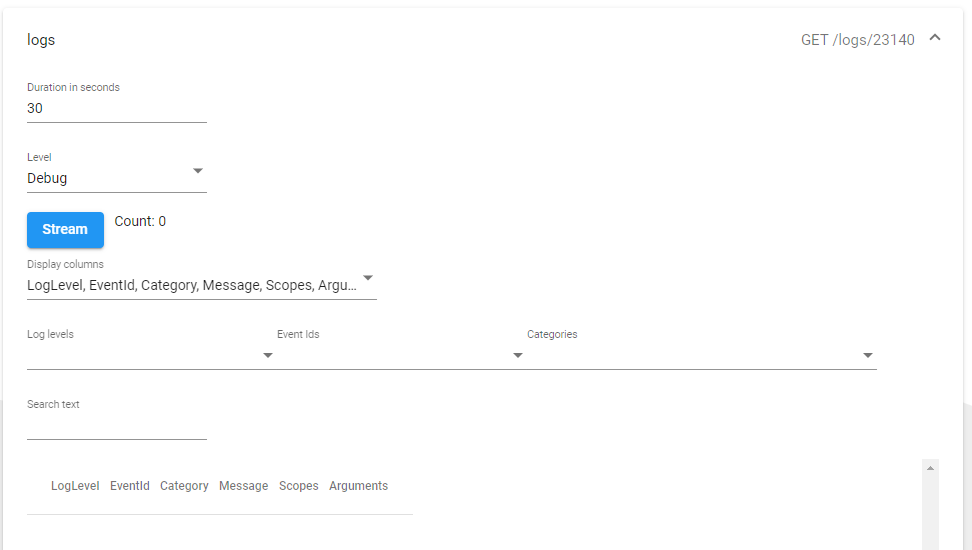
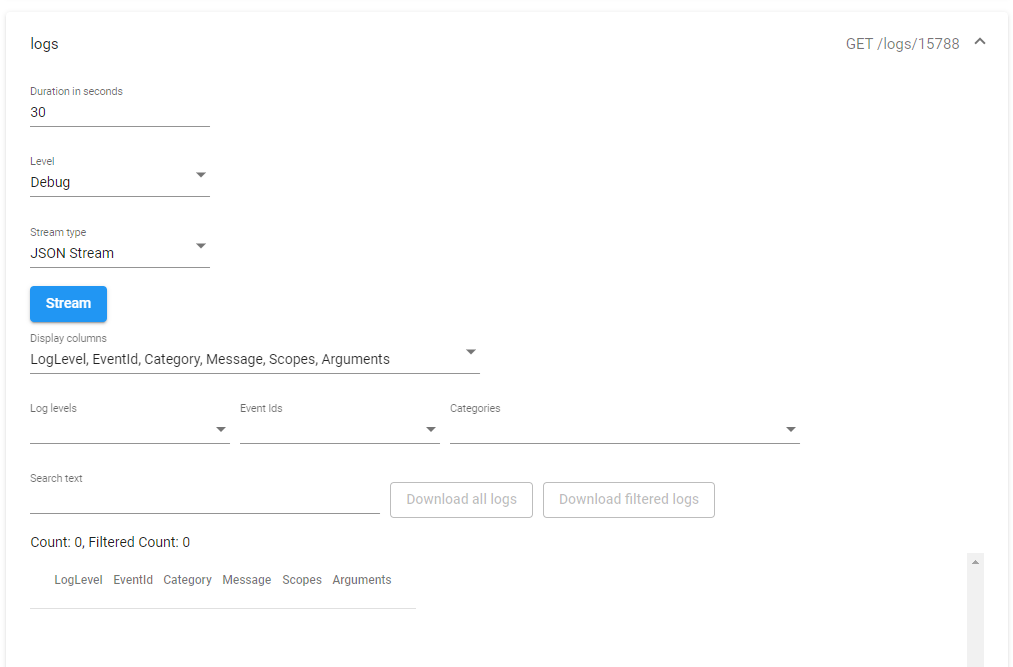
Updated README.md with new changes

diff --git a/src/styles.scss b/src/styles.scss
@@ -27,13 +27,13 @@ body {
   }
 }
 
+@include angular-material-theme($light-theme);
 
 .dark-theme {
-  @include angular-material-theme($dark-theme);
+  @include angular-material-color($dark-theme);
   @include set-app-toolbar($dark-theme);
   @include set-app-background(mat-color(map-get($dark-theme, primary), 900));
   @include set-warning-card-colors($dark-theme);
-
 
   $foreground: map-get($dark-theme, foreground);
   mat-form-field.mat-form-field input {
@@ -42,8 +42,13 @@ body {
 }
 
 .light-theme {
-  @include angular-material-theme($light-theme);
+  // @include angular-material-color($light-theme);
   @include set-app-toolbar($light-theme);
   @include set-app-background(#ffffff);
   @include set-warning-card-colors($light-theme);
+
+  $foreground: map-get($light-theme, foreground);
+  mat-form-field.mat-form-field input {
+    color: mat-color($foreground, text);
+  }
 }

diff --git a/src/index.html b/src/index.html
@@ -2,7 +2,7 @@
 <html lang="en">
 <head>
   <meta charset="utf-8">
-  <title>dotnet-monitor UI</title>
+  <title>dotnet-monitor ui</title>
   <base href="/">
   <meta name="viewport" content="width=device-width, initial-scale=1">
   <link rel="icon" type="image/x-icon" href="favicon.ico">

diff --git a/README.md b/README.md
@@ -13,6 +13,39 @@ This project is created as an easy to access user experience for `dotnet-monitor
 - Increased width of views so user has more visibility on content.
 - Added thanking note. Read [here](#thank-you).
 
+### 2020-07-27
+
+- Added `text/event-stream` support for `/logs` endpoint.
+- Added dark theme (experimental).
+- Improvements for `/metrics` endpoint access.
+- Demo app is now available for use: [https://dotnet-monitor-ui.dev/](https://dotnet-monitor-ui.dev/)
+
+## Demo
+
+Now you can use the latest version of `dotnet-monitor ui` online from [https://dotnet-monitor-ui.dev/](https://dotnet-monitor-ui.dev/). Please follow below instruction to use this site to access `dotnet-monitor` endpoints accessible to your machine. For now, you have to build the solution from the repo to make it work with UI. More details why can be found [here](#i-want-to-build-it).
+
+1. Clone official `dotnet diagnostics` repository from this url. [https://github.com/dotnet/diagnostics](https://github.com/dotnet/diagnostics)
+2. Navigate to `\src\Tools\dotnet-monitor` from your favorite command line tool.
+3. Run `dotnet build`
+4. Open `\artifacts\bin\dotnet-monitor\Debug\netcoreapp2.1\appsettings.json` and add below section to the end.
+
+```json
+  "CorsConfiguration": {
+    "AllowedOrigins": "https://dotnet-monitor-ui.dev"
+  }
+```
+
+5. Goto `\artifacts\bin\dotnet-monitor\Debug\netcoreapp2.1\` using command line tool said above.
+6. Run `dotnet exec dotnet-monitor.dll collect`
+7. Now you can goto [https://dotnet-monitor-ui.dev/](https://dotnet-monitor-ui.dev/) and enjoy full experience of `dotnet-monitor`
+
+---
+**NOTE**
+
+[https://dotnet-monitor-ui.dev/](https://dotnet-monitor-ui.dev/) does not collect any details from your browser nor collect any response received from `dotnet-monitor` tool. It does not have tracking integrated and does not contain any library or tool to collect your personal information. Site hosted here is pure build from the code you can find in this repository.
+
+---
+
 ## Features
 
 In the landing page, user can setup endpoints of the `dotnet-monitor` tool and after clicking `Reload` (application will try to access default endpoint urls on load and show processes if it's available), all available processes from `dotnet-monitor` will be shown in list like this. In the list, user can use `Download` button to download dumps, gcdumps or traces with default parameters. But if user wants to fine-tune input for each endpoint, user can click `More` button to goto process page.
@@ -71,11 +104,13 @@ More info: [https://devblogs.microsoft.com/dotnet/introducing-dotnet-monitor/#me
 
 ![Metrics UI](documentation/images/metrics.png?raw=true "Metrics UI")
 
-## I want to try it out
+## I want to build it
 
 With quick response for my [issue](https://github.com/dotnet/diagnostics/issues/1346), now we have support for CORS rules within `dotnet-monitor`. Thank you [@wiktork](https://github.com/wiktork) for quick turnaround for this! 😊
 
 Until we see this in next release build, you still have to checkout the repo and build the `dotnet-monitor`. Once I have details of the build, I will update it here. Until that, please check below steps to run the latest build.
+
+### Visual Studio 2019
 
 1. Clone official `dotnet diagnostics` repository from this url. [https://github.com/dotnet/diagnostics](https://github.com/dotnet/diagnostics)
 2. Open the solution(`diagnostics.sln`) in Visual Studio and navigate to `src -> Microsoft.Diagnostics.Monitoring.RestServer -> appsettings.json`
@@ -92,39 +127,28 @@ Until we see this in next release build, you still have to checkout the repo and
 6. Clone this repository
 7. Run `ng serve` for a dev server. Navigate to `http://localhost:4200/`.
 
-<strike>
-Well, I want to say it is easy-peasy to see this in action, but unfortunately you have to go through bit of trouble to get it up and running at the moment.
+### Command-line
 
-Current `dotnet-monitor` tool does not support CORS rules to be added to it's REST server. Because of this, client side app like this cannot send direct queries to the REST endpoints without having few changes in the app itself. I have discussed this in detail in [this issue](https://github.com/dotnet/diagnostics/issues/1346) in the original repository.
-
-You can follow below steps to run the application in your machine.
-
-1. Clone repository I mentioned in above ticket locally which has support to CORS rules. [https://github.com/SachiraChin/diagnostics/](https://github.com/SachiraChin/diagnostics/)
-2. Open the solution(`diagnostics.sln`) in Visual Studio and navigate to `src -> Microsoft.Diagnostics.Monitoring.RestServer -> appsettings.json`
-3. Add below section to it.
+1. Clone official `dotnet diagnostics` repository from this url. [https://github.com/dotnet/diagnostics](https://github.com/dotnet/diagnostics)
+2. Navigate to `\src\Tools\dotnet-monitor` from your favorite command line tool.
+3. Run `dotnet build`
+4. Open `\artifacts\bin\dotnet-monitor\Debug\netcoreapp2.1\appsettings.json` and add below section to the end.
 
 ```json
-  "CorsPolicy": {
-    "IsOriginAllowed": null,
-    "ExposedHeaders": [ "*" ],
-    "Headers": [ "*" ],
-    "Methods": [ "*" ],
-    "Origins": [ "http://localhost:4200/" ],
-    "PreflightMaxAge": null,
-    "SupportsCredentials": false
+  "CorsConfiguration": {
+     "AllowedOrigins": "http://localhost:4200"
   }
 ```
 
-4. Now set `src -> Microsoft.Diagnostics.Monitoring.RestServer -> Tools -> dotnet-monitor` as start up project
-5. Start debugging
-6. Clone this repository
-7. Run `ng serve` for a dev server. Navigate to `http://localhost:4200/`.
-</strike>
+5. Goto `\artifacts\bin\dotnet-monitor\Debug\netcoreapp2.1\` using command line tool said above.
+6. Run `dotnet exec dotnet-monitor.dll collect`
+7. Clone this repository
+8. Run `ng serve` for a dev server. Navigate to `http://localhost:4200/`.
 
 ## Further work
 
 - **DONE!!** Added support for `/metrics` endpoint. ~~This tool does not support `/metrics` endpoint available in `dotnet-monitor` tool. Next steps would be get integration for that.~~
-- Add text stream support for `logs` endpoint.
+- **DONE!!** Added text stream support for `logs` endpoint.
 - Prepare POC for integrating UI to `dotnet-monitor` itself.
 
 ## Conclusion
